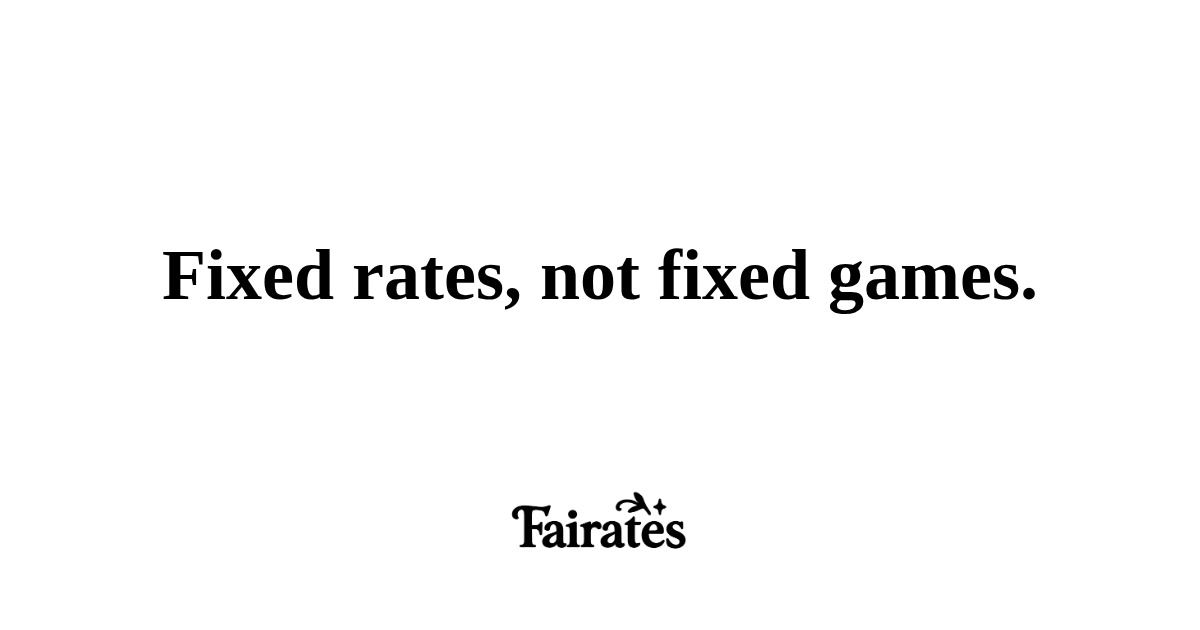
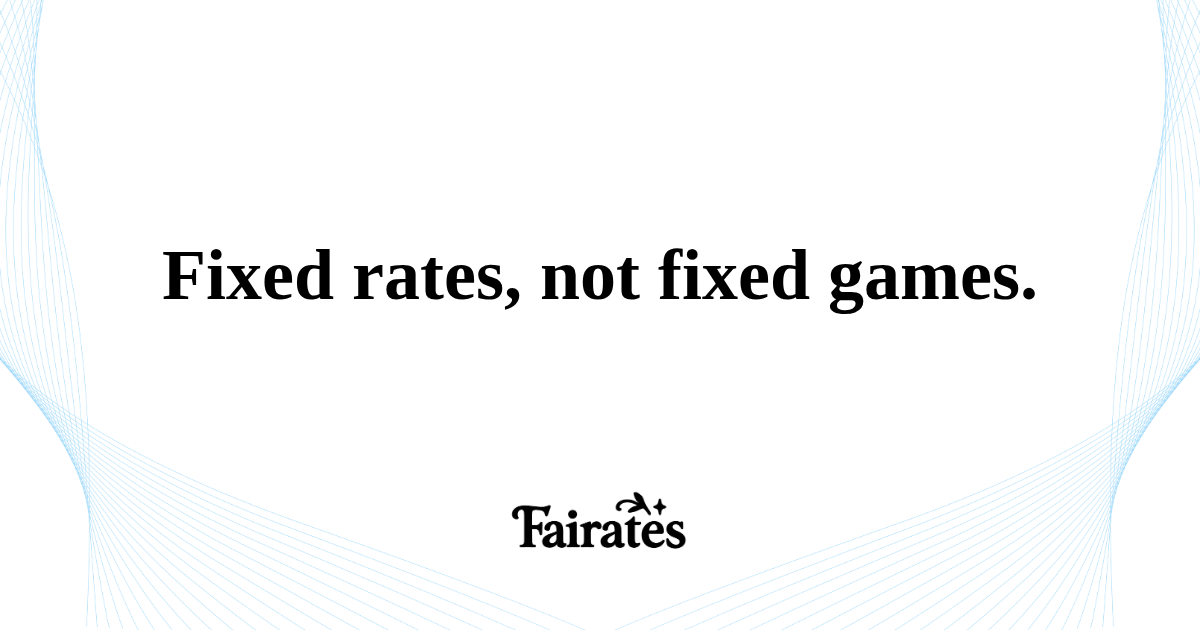
fix image

Changed region(s): [[0.8017, 0.0, 1.0, 0.9349], [0.0, 0.0, 0.2158, 0.9048], [0.2467, 0.9952, 0.2775, 1.0]]

diff --git a/public/og-preview.html b/public/og-preview.html
@@ -38,6 +38,37 @@
       overflow: hidden;
     }
     
+    body::before {
+      content: '';
+      position: absolute;
+      top: 0;
+      left: 0;
+      width: 50%;
+      height: 100%;
+      background-image: url('/bgpattern.png');
+      background-size: cover;
+      background-position: right center;
+      background-repeat: no-repeat;
+      transform: scaleX(-1);
+      z-index: 0;
+      pointer-events: none;
+    }
+    
+    body::after {
+      content: '';
+      position: absolute;
+      top: 0;
+      right: 0;
+      width: 50%;
+      height: 100%;
+      background-image: url('/bgpattern.png');
+      background-size: cover;
+      background-position: right center;
+      background-repeat: no-repeat;
+      z-index: 0;
+      pointer-events: none;
+    }
+    
     .main-text {
       font-size: 72px;
       font-weight: 700;
@@ -46,6 +77,8 @@
       line-height: 1.2;
       margin-bottom: 80px;
       font-family: 'Charter', serif;
+      position: relative;
+      z-index: 1;
     }
     
     .logo-container {
@@ -56,6 +89,7 @@
       display: flex;
       align-items: center;
       justify-content: center;
+      z-index: 1;
     }
     
     .logo-container img {
